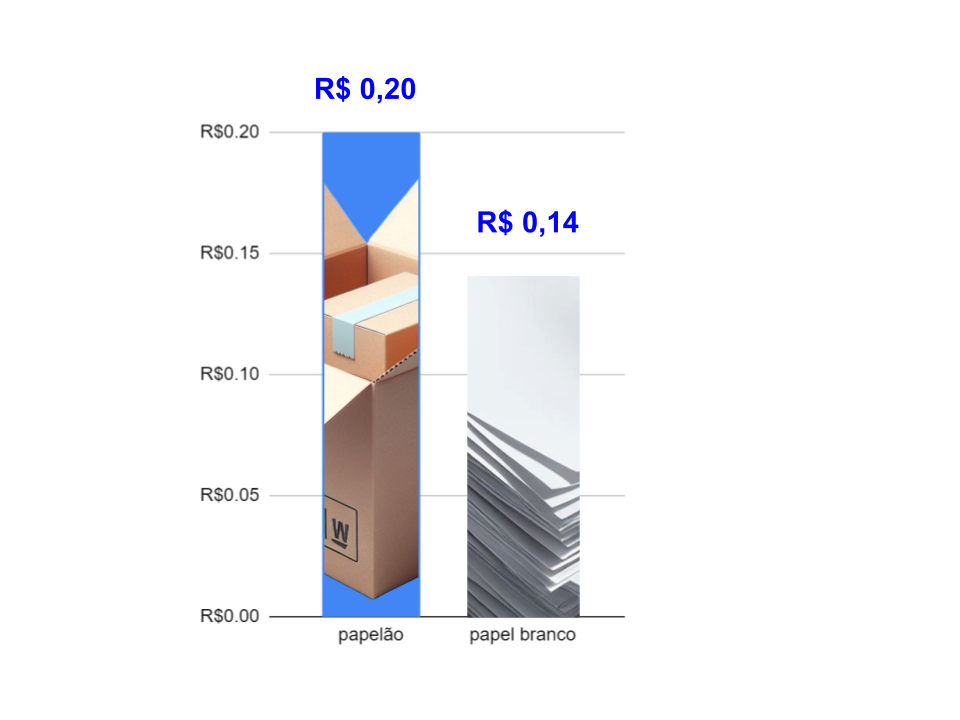
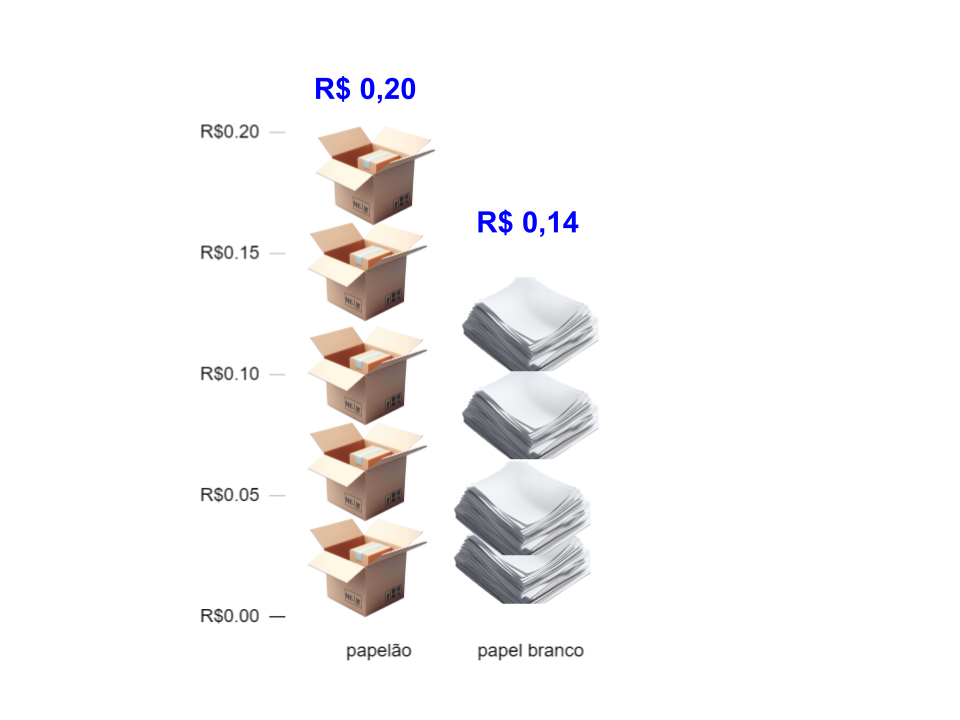
Add files via upload

Changed region(s): [[0.3125, 0.1528, 0.4688, 0.9167], [0.4688, 0.3667, 0.625, 0.9167]]

diff --git a/style.css b/style.css
@@ -52,12 +52,24 @@ p.header-text{
     flex-direction: row;
     padding-top: 50px;
     padding-bottom: 35px;
-    align-items: center;
     padding-left: 10px;
     align-items: center;
     overflow-y: auto;
     justify-content: center;
 }
+
+.branco3{
+    display: flex;
+    width: 95%;
+    height: auto;
+    flex-direction: row;
+    padding-top: 50px;
+    padding-bottom: 35px;
+    padding-left: 10px;
+    overflow-y: auto;
+    justify-content: center;
+}
+
 
 .item-ao-lado-de-imagem{
     padding-left: 10px;
@@ -74,15 +86,13 @@ h1#texcen{
 
 p#text-branco{
     font-size:2vw;
-    word-break: break-all;
-    word-wrap: break-word;
+    word-break: break-word;
     padding-right: 10px;
 }
 
 p#text-wheat{
     font-size:2vw;
-    word-break: break-all;
-    word-wrap: break-word;
+    word-break: break-word;
 }
 
 
@@ -98,26 +108,22 @@ img.image-do-lado-do-texto{
 
 h1#vermelho{
     color: red;
-    word-break: break-all;
-    word-wrap: break-word;
+    word-break: break-word;
 }
 
 h1#azul{
     color:blue;
-    word-break: break-all;
-    word-wrap: break-word;
+    word-break: break-word;
 }
 
 h1#amarelo{
     color:rgb(200, 200, 0);
-    word-break: break-all;
-    word-wrap: break-word;
+    word-break: break-word;
 }
 
 h1#verde{
     color:green;
-    word-break: break-all;
-    word-wrap: break-word;
+    word-break: break-word;
 }
 
 #preco-prod{
@@ -138,12 +144,29 @@ h1#verde{
     width: 540px;
 }
 
+#grafico-img2{
+    border-radius: 50px;
+    border: 2px inset black;
+    width: 260px;
+}
+
+
+
 .deslizavel{
     overflow-y: auto;
     display: flex;
     padding: 50px;
     padding-left: 100px;
     flex-direction: row;
+}
+
+
+@media (max-width:1146px){
+    .branco3{
+        justify-content: left;
+    }
+
+    
 }
 
 @media (max-width: 768px) {
@@ -173,7 +196,6 @@ h1#verde{
         height: auto;
         flex-direction: column;
         padding-top: 50px;
-        align-items: center;
         margin: 0;
     }
     
@@ -183,11 +205,18 @@ h1#verde{
         height: auto;
         flex-direction: row;
         padding-top: 50px;
-        align-items: center;
         overflow-y: auto;
         justify-content: left;
     }
 
+    .branco3{
+        display: flex;
+        width: 95%;
+        height: auto;
+        flex-direction: row;
+        padding-top: 50px;
+        overflow-y: auto;
+    }
 
     .item-ao-lado-de-imagem{
         bottom:50px;
@@ -199,14 +228,12 @@ h1#verde{
     
 
     p#text-branco{
-        word-break: break-all;
-        word-wrap: break-word;
+        word-break: break-word;
         font-size:5vw;
     }
 
     p#text-wheat{
-        word-break: break-all;
-        word-wrap: break-word;
+        word-break: break-word;
         font-size:5vw;
 
     }
@@ -320,14 +347,14 @@ h1#verde{
 
 
 p{
-    word-break: break-all;
+    word-break: break-word;
     font-family: -apple-system, BlinkMacSystemFont, 'Segoe UI', Roboto, Oxygen, Ubuntu, Cantarell, 'Open Sans', 'Helvetica Neue', sans-serif;
     padding-right: 10px;
     padding-left: 10px;
 }
 
 h1{
-    word-break: break-all;
+    word-break: break-word;
     font-family: -apple-system, BlinkMacSystemFont, 'Segoe UI', Roboto, Oxygen, Ubuntu, Cantarell, 'Open Sans', 'Helvetica Neue', sans-serif;
     padding-right: 10px;
     padding-left: 10px;
@@ -335,7 +362,7 @@ h1{
 }
 
 h2{
-    word-break: break-all;
+    word-break: break-word;
     font-family: -apple-system, BlinkMacSystemFont, 'Segoe UI', Roboto, Oxygen, Ubuntu, Cantarell, 'Open Sans', 'Helvetica Neue', sans-serif;
     padding-right: 10px;
     padding-left: 10px; 
@@ -382,6 +409,7 @@ h2{
     height: 95px;
     align-items:center;
     text-align: center;
+
 }
 
 h1#branco{
@@ -392,6 +420,7 @@ h1#branco{
 
 #importante-text{
     background-color: lightseagreen;
+    text-transform: uppercase;
 }
 
 #importante-oleo{
@@ -409,7 +438,7 @@ h1#branco{
 #dica-importante{
     color: white;
     font-weight: bold;
-    word-break: break-all;
+    word-break: break-word;
 }
 
 footer{
@@ -420,7 +449,7 @@ footer{
 }
 
 #footer-text{
-    word-break: break-all;
+    word-break: break-word;
     font-family: -apple-system, BlinkMacSystemFont, 'Segoe UI', Roboto, Oxygen, Ubuntu, Cantarell, 'Open Sans', 'Helvetica Neue', sans-serif;
     margin: 0;
     color: white;
@@ -492,7 +521,3 @@ h1{
 .fundobranco{
     background-color: white;
 }
-
-
-
-

diff --git a/index.html b/index.html
@@ -342,7 +342,7 @@
                 <div class="branco2">
                     <div class="coluna2">
                         <h1 id="alicen">Grafico de preços</h1>
-                        <div id="paddin-botup"><img src="grafico-vidro.png" alt="grafico-de-precos" id="grafico-img" class="whiteimage"></div>
+                        <div id="paddin-botup"><img src="grafico-vidro.png" alt="grafico-de-precos" id="grafico-img2" class="whiteimage"></div>
                     </div>        
                 </div>
             </div>
@@ -425,7 +425,7 @@
         <section id="lugaresparadepositar">
             <div id="branco">
                 <h1 id="texcen">Lugares para vender residuos reciclaveis</h1>
-                <div class="branco2">
+                <div class="branco3">
                     <div id="padding-arround">
                         <div id="local">
                             <img src="85ad52eb-a352-4980-988b-5a2d982acf0a.png" alt="aindanaotem" id="imagem-local">
